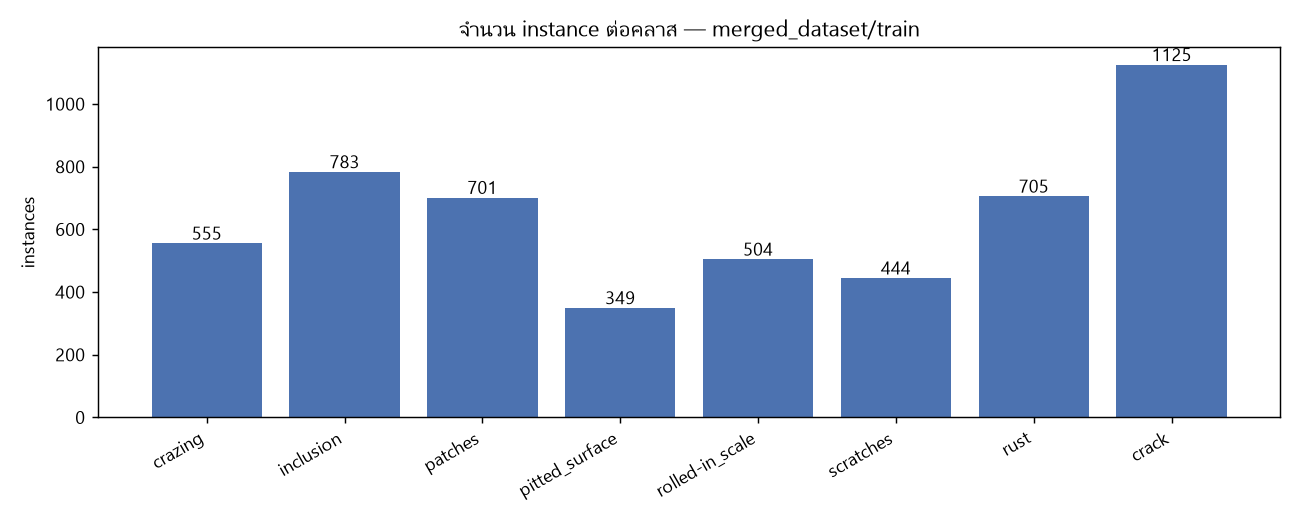
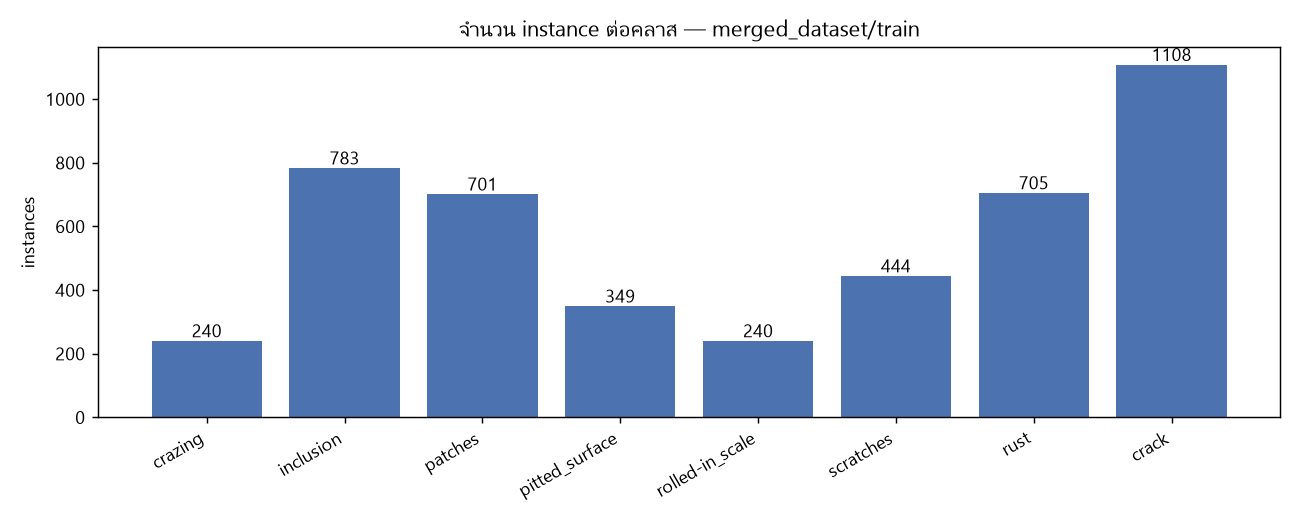
train-gray-s results: mAP50 0.853 (Tier 1+2); pipeline points to it
- train-gray-s (yolo11s, gray + fix_labels + oversample + texture recipe):
  test mAP50 0.853 / mAP50-95 0.537 / R 0.809; val 0.854 (no overfit).
  crazing recall 0.42->0.80, rolled-in_scale ->0.83; crack still weakest (0.669).
- Colour shortcut evidence: colour-trained train-balanced evaluated on the
  grayscale test set collapses on rust (mAP 0.995 -> 0.19, recall 0).
- pipeline.py STAGE2_MODEL_PATH -> train-gray-s; run_stage2 auto-greyscales
  the crop for it (already wired).
- thresholds.json from tune_thresholds (val macro-F1 0.814 -> 0.843).
- results/stage2_{train-clean,train-balanced,train-gray-s}.json re-evaluated
  on merged_dataset_gray test; figures regenerated.
- README: new "Tier 1+2" section with the honest caveat that crazing/rolled-in
  mAP jump is partly the label change (union box); note that a clean
  label+gray vs 11n->11s ablation still needs a yolo11n gray run.

Claude-Session: https://claude.ai/code/session_01Pm3sZ7QAUbSbwBWZWYBev3

diff --git a/pipeline.py b/pipeline.py
@@ -26,7 +26,7 @@ from ultralytics import YOLO
 # ===== Path (อ้างอิงจากตำแหน่งไฟล์นี้ ไม่ผูกกับ working directory) =====
 BASE_DIR = Path(__file__).resolve().parent
 STAGE1_MODEL_PATH = BASE_DIR / "DMS46_v1.pt"
-STAGE2_MODEL_PATH = BASE_DIR / "runs" / "detect" / "train-balanced" / "weights" / "best.pt"
+STAGE2_MODEL_PATH = BASE_DIR / "runs" / "detect" / "train-gray-s" / "weights" / "best.pt"
 THRESHOLDS_PATH = BASE_DIR / "thresholds.json"  # per-class conf (ถ้ามี) — สร้างด้วย tune_thresholds.py
 
 # DMS46 ทำนายเป็น index 0-45 (เรียงจาก taxonomy 46 ชนิดที่โมเดลรองรับ)

diff --git a/README.md b/README.md
@@ -5,7 +5,7 @@
 | Stage | หน้าที่ | โมเดล |
 |-------|---------|-------|
 | **1. Metal Localization** | หา region ในภาพที่เป็นวัสดุ "เหล็ก/โลหะ" แล้ว crop ออกมา | [DMS46](https://github.com/apple/ml-dms-dataset) (Apple Dense Material Segmentation, pre-trained, TorchScript) |
-| **2. Defect Detection** | ตรวจชนิดตำหนิบนภาพที่ crop มา 8 ประเภท | YOLO11n (เทรนเองบน dataset รวม) |
+| **2. Defect Detection** | ตรวจชนิดตำหนิบนภาพที่ crop มา 8 ประเภท | YOLO11s (เทรนเองบน dataset รวม, grayscale — `train-gray-s`) |
 
 ```
 ภาพถ่าย ──▶ [Stage 1: DMS46] ──▶ mask พื้นที่เหล็ก ──▶ crop
@@ -260,17 +260,73 @@ python app.py
 - คลาสที่แข็งอยู่แล้ว (patches, scratches) ถอยเล็กน้อย ~0.02–0.03 จากการลด mosaic/scale
 
 **สรุป:** สำหรับงานตรวจตำหนิ (พลาดตำหนิ = แย่กว่าเตือนเกิน) recall ที่สมดุลขึ้นคุ้มกว่า mAP ที่ขยับนิด
-→ ใช้ `train-balanced` เป็นโมเดลหลัก. ถ้าจะดันต่อ: crazing ต้องการ imgsz สูงขึ้น (texture ละเอียด)
-หรือข้อมูลจริงเพิ่ม ไม่ใช่แค่ oversample list
+→ train-balanced ดีกว่า train-clean. **ขั้นต่อไป (Tier 1+2) ดันได้อีกมาก — ดูหัวข้อ "Tier 1+2" ด้านล่าง**
+(โมเดลหลักปัจจุบัน = `train-gray-s`, `pipeline.py` ชี้ตัวนี้แล้ว)
 
 ### ตารางเปรียบเทียบ
 
 | Config | mAP50 | mAP50-95 | R | crazing mAP50 | rolled-in_scale mAP50 |
 |---|---|---|---|---|---|
 | train-2 (dataset ปนเปื้อน, test split เก่า) | 0.56 | – | – | – | – |
-| **train-clean** (dataset สะอาด, aug default) | 0.750 | 0.448 | 0.703 | 0.423 | 0.585 |
-| **train-balanced** (oversample + recipe texture) | **0.763** | 0.449 | **0.753** | 0.392 | **0.668** |
-| train-balanced-s (yolo11s) | _?_ | _?_ | _?_ | _?_ | _?_ |
+| train-clean (dataset สะอาด, aug default) | 0.750 | 0.448 | 0.703 | 0.423 | 0.585 |
+| train-balanced (oversample + recipe texture) | 0.763 | 0.449 | 0.753 | 0.392 | 0.668 |
+| **train-gray-s** (Tier 1+2 — ดูหัวข้อถัดไป) | **0.853** | **0.537** | **0.809** | **0.870** | **0.860** |
+
+> ⚠ **train-gray-s วัดคนละ protocol**: บน `merged_dataset_gray` test (ภาพ grayscale) และ label ของ
+> crazing/rolled-in_scale ถูกรวมเป็น 1 กล่อง/ภาพ (`fix_labels.py`) — mAP ของ 2 คลาสนี้จึงวัด
+> "หา region ตำหนิ" ไม่ใช่ "ระบุแต่ละ patch" เทียบตัวเลขตรง ๆ กับ 2 แถวบนไม่ได้
+
+### Tier 1+2 — label สะอาด + grayscale + yolo11s (`runs/detect/train-gray-s`)
+
+3 การเปลี่ยนพร้อมกัน: (1) `fix_labels.py` รวมกล่อง crazing/rolled-in_scale เป็น union ต่อภาพ +
+ตัดกล่อง degenerate  (2) `make_grayscale_dataset.py` เทรน/วัดบน grayscale (ตัด shortcut เรื่องสี)
+(3) yolo11n → **yolo11s**
+
+**train-gray-s** — 120 epochs, texture recipe + oversampling, วัดบน `merged_dataset_gray` test (568 instance):
+
+| | mAP50 | mAP50-95 | P | R |
+|---|---|---|---|---|
+| **รวมทุกคลาส** | **0.853** | **0.537** | 0.836 | 0.809 |
+
+val mAP50 = 0.854 ≈ test 0.853 → ไม่ overfit
+
+| class | mAP50 | mAP50-95 | P | R |
+|-------|------:|---------:|---:|---:|
+| rust | 0.995 | 0.974 | 0.981 | 1.000 |
+| scratches | 0.964 | 0.526 | 0.921 | 0.947 |
+| patches | 0.900 | 0.514 | 0.800 | 0.851 |
+| crazing | 0.870 | 0.437 | 0.818 | 0.800 |
+| rolled-in_scale | 0.860 | 0.565 | 0.833 | 0.832 |
+| pitted_surface | 0.795 | 0.499 | 0.858 | 0.721 |
+| inclusion | 0.769 | 0.373 | 0.680 | 0.660 |
+| crack | 0.669 | 0.411 | 0.799 | 0.659 |
+
+**อ่านผล:**
+- คลาสที่ไม่ได้แตะ label (patches/scratches/pitted/rust/inclusion) → เสมอตัวถึงดีขึ้นเล็กน้อย
+  → **grayscale ไม่ทำให้เสีย** แถมตัด color shortcut
+- crazing recall 0.42 → **0.80**, rolled-in_scale recall → 0.83 — จับตำหนิได้จริงขึ้นมาก
+  (ส่วน mAP ที่พุ่งแรง มาจากการเปลี่ยนรูปแบบ label ด้วย — ดู ⚠ ข้างบน)
+- **crack ยังอ่อนสุด** (mAP50 0.669, recall 0.66) — grayscale อาจลด contrast ของรอยแตกบนภาพสี
+
+**หลักฐาน color shortcut** (วัดโมเดลที่เทรนบน**สี** บน test **เทา**):
+`train-balanced` rust mAP50 **0.995 → 0.187 (recall → 0.00)** — โมเดลสีหา rust จากโทนสีเป็นหลัก
+พอเป็น grayscale แทบหาไม่เจอ → เป็นเหตุผลที่ต้องเทรนบน grayscale
+
+**ยังขาดสำหรับ ablation ที่แยกผลชัด:** retrain yolo11n บน `merged_dataset_gray` (label สะอาด + gray, ไม่เปลี่ยน model size)
+→ แยกผลของ "label+gray" ออกจาก "11n→11s". ตอนนี้ทั้ง 3 อย่างรวมอยู่ใน train-gray-s
+
+### Per-class confidence threshold (`tune_thresholds.py` → `thresholds.json`)
+
+จาก F1-vs-confidence curve บน val — pipeline/app/evaluate_real โหลดใช้อัตโนมัติ
+
+| | conf ที่เลือก | หมายเหตุ |
+|---|---|---|
+| rust | 0.90 | มั่นใจสูงตลอด ตั้งสูงได้ |
+| crazing | 0.59 | |
+| patches / inclusion | 0.47 / 0.45 | |
+| crack / pitted / scratches / rolled-in | 0.33–0.36 | ยิงเบา ตั้งต่ำเพื่อ recall |
+
+**macro-F1 บน val: 0.814 (conf เดียว 0.40) → 0.843 (per-class)**  (+0.029)
 
 ### Pipeline end-to-end vs Baseline
 

diff --git a/NEXT_STEPS.md b/NEXT_STEPS.md
@@ -28,7 +28,24 @@ cd C:\Users\Lenovo\steel-defect-detection
 
 ---
 
-## ขั้น 1 — ปรับความแม่นยำ (Tier 1 + 2)
+## ✅ ขั้น 1 — ปรับความแม่นยำ (Tier 1 + 2) — เสร็จแล้ว 2026-09-03
+
+**ผล `train-gray-s`** (yolo11s, 120 ep, texture recipe, gray + label สะอาด):
+mAP50 **0.853** / mAP50-95 **0.537** / R 0.809 (val 0.854 ≈ test → ไม่ overfit)
+- crazing recall 0.42 → **0.80**, rolled-in_scale → 0.83
+- crack ยังอ่อนสุด (mAP50 0.669) — grayscale อาจลด contrast รอยแตก
+- `thresholds.json`: macro-F1 val 0.814 → **0.843**
+- `pipeline.py` ชี้ `train-gray-s` แล้ว, `results/stage2_*.json` × 3 + figures อัปเดตแล้ว
+- **หลักฐาน color shortcut:** train-balanced (เทรนสี) วัดบน test เทา → rust mAP 0.995 → **0.19 (R=0)**
+
+**ยังค้าง:** retrain yolo11n บน `merged_dataset_gray` เพื่อแยกผล "label+gray" ออกจาก "11n→11s"
+```powershell
+python make_oversampled_list.py --dataset merged_dataset      # ถ้ายังไม่มี
+python train.py --recipe texture --data merged_dataset_gray/data_oversampled.yaml --name train-gray-n --epochs 120 --batch 8 --patience 40
+python evaluate.py --mode stage2 --weights runs/detect/train-gray-n/weights/best.pt --data merged_dataset_gray/data.yaml --out results/stage2_train-gray-n.json
+```
+
+<details><summary>วิธีทำเดิม (ทำไปแล้ว — เก็บไว้อ้างอิง)</summary>
 
 หลักฐาน (`train-balanced/results.csv` + label geometry):
 - val mAP50 พีค **epoch 62 (0.80)** แล้วไหลลง → เทรนนานขึ้น/imgsz สูงขึ้น **ไม่ช่วย**
@@ -77,10 +94,9 @@ python tune_thresholds.py --weights runs/detect/train-gray-s/weights/best.pt --d
 > `python evaluate.py --mode stage2 --weights runs/detect/train-clean/weights/best.pt --data merged_dataset_gray/data.yaml --out results/stage2_train-clean.json` (และ train-balanced)
 > — ตัวเลขเดิมใน README วัดก่อน `fix_labels.py` เทียบตรงไม่ได้
 
-**ส่งกลับมา:** `results/stage2_train-gray-s.json` + `thresholds.json` + เลข mAP จาก console
-→ เติมตารางเทียบใน README + รัน `make_figures.py`
+เช็ค regression: `python test_smoke.py`
 
-เช็ค regression ก่อนส่ง: `python test_smoke.py`
+</details>
 
 ---
 

diff --git a/thesis_notes.md b/thesis_notes.md
@@ -89,15 +89,19 @@
 
 ---
 
-## สถานะปัจจุบัน (2026-09-02)
+## สถานะปัจจุบัน (2026-09-03)
 
 | งาน | สถานะ |
 |---|---|
-| Stage 2 train-balanced | ✅ mAP50 0.763 / R 0.753 — `runs/detect/train-balanced/weights/best.pt` (pipeline ใช้ตัวนี้แล้ว) |
+| Stage 2 train-balanced (yolo11n) | ✅ mAP50 0.763 / R 0.753 — baseline |
+| **Stage 2 train-gray-s (yolo11s + Tier 1+2)** | ✅ **mAP50 0.853 / mAP50-95 0.537 / R 0.809** — `runs/detect/train-gray-s` (pipeline ชี้ตัวนี้), val 0.854 ≈ test → ไม่ overfit |
+| Tier 1: `fix_labels.py` (merge crazing/rolled-in) + `make_grayscale_dataset.py` | ✅ |
+| Tier 2: `tune_thresholds.py` → macro-F1 val 0.814 → 0.843 | ✅ `thresholds.json` |
 | Ablation B (aug/oversampling) | ✅ README + `figures/confusion_compare.png` |
 | `evaluate_stage1.py` | ✅ รันเต็ม 416 ภาพ → `results/stage1_dms46_test.json` |
 | cross-region NMS ใน `pipeline.py` | ✅ |
+| Ablation แยกผล label+gray vs 11n→11s | ⏳ ต้อง retrain yolo11n บน merged_dataset_gray |
 | `real_test/` | ⏳ ต้องเก็บภาพเอง (ดู `NEXT_STEPS.md` ข้อ 3) |
 | Ablation Stage 1 (`evaluate_real.py`) | ⏳ รอ `real_test/` |
-| Baseline C (yolo11s) | ⏳ ถ้าจะทำ |
+| multi-seed / CI, leakage check, เทียบเปเปอร์ NEU-DET | ⏳ |
 | เคลียร์ baseline กับอาจารย์ | ⏳ |
